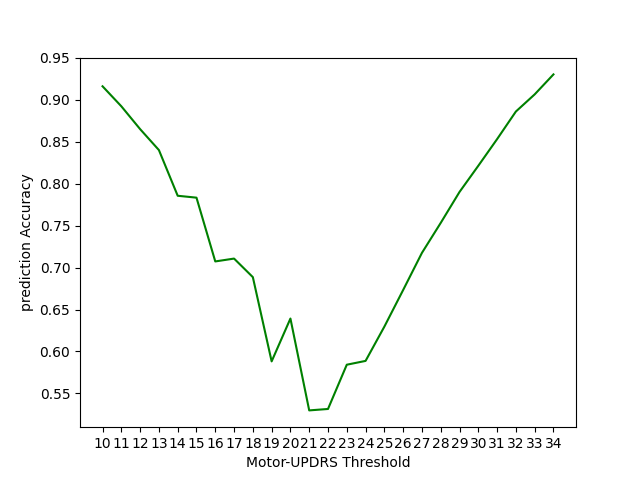
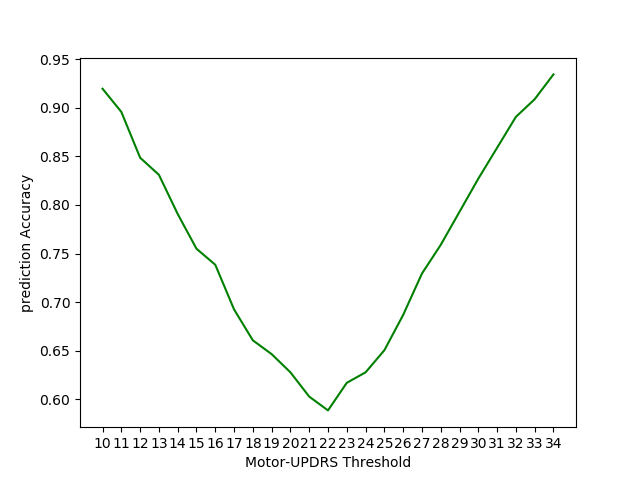
normalized before RFR

diff --git a/classifyMotor.py b/classifyMotor.py
@@ -6,79 +6,79 @@ import collections
 from math import sqrt
 import matplotlib.pyplot as plt
 
-    
-#main function: find threshold value
+
+# main function: find threshold value
 def find_threshold(X_train, X_test, y_train, y_test):
-    #perform feature selection
+    # perform feature selection
     X_train, X_test = preprocessing.random_forest_features(X_train, y_train, X_test)
-    
-    #create dictionary to hold mcc values for different thresholds
+
+    # create dictionary to hold mcc values for different thresholds
     mcc_values = collections.defaultdict()
     accuracy_values = []
-    
+
     for threshold in range(10, 35):
-        #split motor updrs based on threshold
+        # split motor updrs based on threshold
         y_train1, y_test1 = np.array(y_train), np.array(y_test)
         y_train1, y_test1 = list(np.where(y_train1 > threshold, 1, 0)), list(np.where(y_test1 > threshold, 1, 0))
-        
-        #classify input patterns using data
+
+        # classify input patterns using data
         y_pred = list(mlp(X_train, y_train1, X_test))
-        
-        #calculate prediction accuracy
+
+        # calculate prediction accuracy
         accuracy_values.append(accuracy_score(y_test1, y_pred))
-        
-        #calculate MCC
+
+        # calculate MCC
         mcc_values[threshold] = mcc(y_test1, y_pred)
-        
-        #find threshold value that gives highest mcc value
+
+        # find threshold value that gives highest mcc value
         maxMCC = 0
-        #iterate through (k = threshold, v = mcc) pairs
-        for key,value in mcc_values.items():
+        # iterate through (k = threshold, v = mcc) pairs
+        for key, value in mcc_values.items():
             if value > maxMCC:
                 maxMCC = value
                 thresh = key
-                
-    #plot threshold values against MCC
+
+    # plot threshold values against MCC
     plt.plot(list(mcc_values.keys()), list(mcc_values.values()))
     plt.xticks(list(mcc_values.keys()))
     plt.xlabel("Motor-UPDRS Threshold")
     plt.ylabel("Matthews Correlation Coefficient")
     plt.savefig('thresholdVSmcc.png')
-    
-    #plot threshold values against model accuracy
+
+    # plot threshold values against model accuracy
     plt.clf()
     plt.plot(list(mcc_values.keys()), accuracy_values, color="green")
     plt.xticks(list(mcc_values.keys()))
     plt.xlabel("Motor-UPDRS Threshold")
     plt.ylabel("prediction Accuracy")
-    plt.savefig('thresholdVSaccuracy.png')        
+    plt.savefig('thresholdVSaccuracy.png')
     return thresh
-    
 
-#MLP binary classifier
+
+# MLP binary classifier
 def mlp(X_train, y_train, X_test):
-    #build model
-    model = MLPClassifier(hidden_layer_sizes=(150,100,50), max_iter=300,activation = 'relu',solver='adam',random_state=1)    
+    # build model
+    model = MLPClassifier(hidden_layer_sizes=(150, 100, 50), max_iter=300, activation='relu', solver='adam',
+                          random_state=1)
 
-    #train data
+    # train data
     model.fit(X_train, y_train)
-    
-    #test data and generate predictions
-    y_pred = model.predict(X_test)    
+
+    # test data and generate predictions
+    y_pred = model.predict(X_test)
     return y_pred
 
 
-#calculate matthews correlation coefficient
+# calculate matthews correlation coefficient
 def mcc(yt, yp):
-    labels = [0,1]
+    labels = [0, 1]
     cm = confusion_matrix(yt, yp, labels).tolist()
     tn, fp, fn, tp = cm[0][0], cm[0][1], cm[1][0], cm[1][1]
     x = (tp + fp) * (tp + fn) * (tn + fp) * (tn + fn)
     if x != 0:
         result = ((tp * tn) - (fp * fn)) / sqrt(x)
     else:
-        #if any of the four sums is 0, arbitrarily set denominator to 1
-        #see https://en.wikipedia.org/wiki/Matthews_correlation_coefficient 
-        result = ((tp * tn) - (fp * fn))    
+        # if any of the four sums is 0, arbitrarily set denominator to 1
+        # see https://en.wikipedia.org/wiki/Matthews_correlation_coefficient
+        result = ((tp * tn) - (fp * fn))
     return result
-    

diff --git a/preprocessing.py b/preprocessing.py
@@ -4,6 +4,7 @@ from sklearn.decomposition import PCA
 from sklearn.preprocessing import StandardScaler
 from sklearn.ensemble import RandomForestRegressor
 from sklearn.feature_selection import SelectFromModel
+from sklearn.preprocessing import normalize
 
 
 def load_data(path):
@@ -20,13 +21,13 @@ def load_data(path):
     return X_train, X_test, y_train, y_test
 
 
-#load data with motor UPDRS as response variable and with only vocal features
+# load data with motor UPDRS as response variable and with only vocal features
 def load_data_for_classification(path):
     parkinsons_data = pd.read_csv(path)
 
-    #use only vocal features for classification
+    # use only vocal features for classification
     X = parkinsons_data.drop(['age', 'sex', 'test_time', 'subject#', 'total_UPDRS', 'motor_UPDRS'], axis=1)
-    #response variable is motor UPDRS
+    # response variable is motor UPDRS
     y = parkinsons_data.loc[:, 'motor_UPDRS']
     X_train, X_test, y_train, y_test = train_test_split(X, y, test_size=0.3)
 
@@ -34,9 +35,14 @@ def load_data_for_classification(path):
 
 
 def random_forest_features(X_train, y_train, X_test):
+    # scalar = StandardScaler()
+    # scalar.fit(X_train)
+
+    transformed_X_train = normalize(X_train)
+    transformed_X_test = normalize(X_test)
 
     model = SelectFromModel(RandomForestRegressor(n_estimators=1000))
-    model.fit(X_train, y_train)
+    model.fit(transformed_X_train, X_test)
 
     selected_feat = X_train.columns[(model.get_support())]
 
@@ -44,6 +50,9 @@ def random_forest_features(X_train, y_train, X_test):
 
     X_train = X_train[selected_feat]
     X_test = X_test[selected_feat]
+
+    X_train = normalize(X_train)
+    X_test = normalize(X_test)
 
     return X_train, X_test
 

diff --git a/svr.py b/svr.py
@@ -5,6 +5,7 @@ import math
 
 
 def svr_model(X_train, y_train, X_test, y_test):
+
     # create model using different kernels
     svr_rbf = SVR(kernel='rbf', C=100, gamma=0.1, epsilon=0.1)
 
